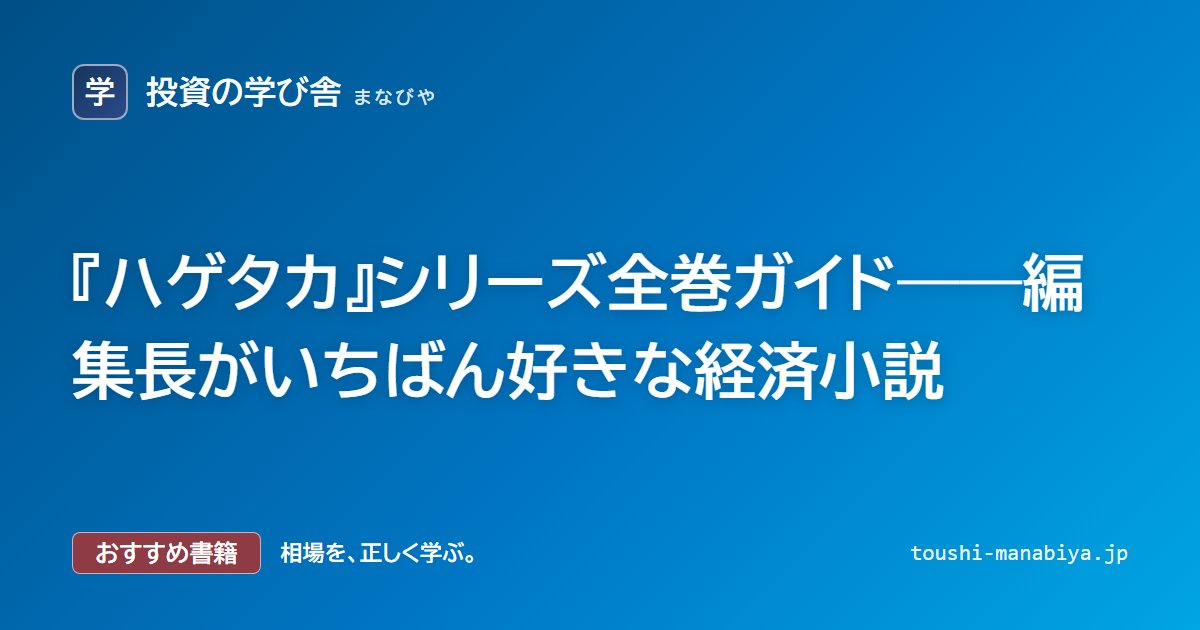
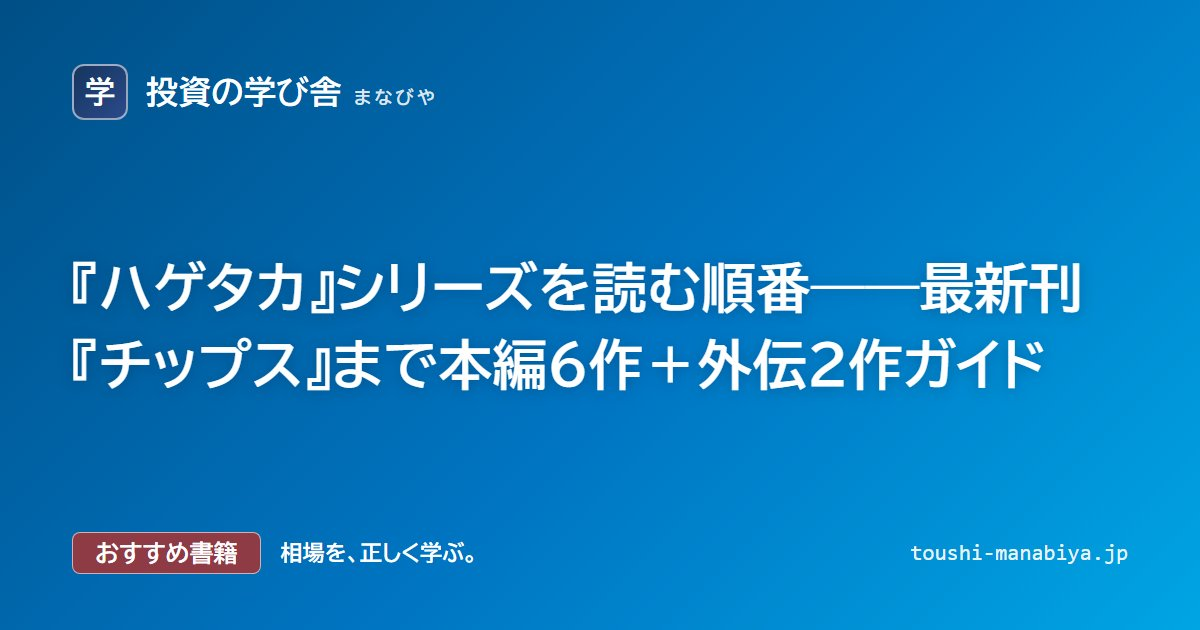
コラム追加: 物価2%未満でなぜ利上げ？（日米同週利上げと基調的な物価）
learn/underlying-inflation-rate-hike を新規公開（reviewed:true・Masaru承認）。
2026年9月16日FOMC（3.75〜4.00%・12-0）と9月18日日銀（1.25%程度・7-2）を題材に、
足もとの物価（8月CPI除く生鮮1.7%）と基調的な物価の違い、原油高下の利上げの理屈、
実質金利、利上げ当日に円安方向へ動いた値動きの読み方、家計への波及、次の日程を解説。

数値は一次情報で確定（日銀声明2本・日銀レビュー・総務省CPI・FOMC声明・FRED・財務省・日経平均プロフィル）。
evidence-auditor監査で根拠なし2件・推奨2件を指摘→全件反映（短プラ改定は日銀統計、織り込みは報道D出典で限定表現）。

あわせて yen-carry-boj-rate-hike に9月会合結果の追記（鮮度更新）、はげたかシリーズのOGPを現タイトルで再生成。

検証: validate 214件警告0 / jp_style_lint 100点 / build緑 / check_seo 指摘0 / Playwright描画（画像破損0・横スクロールなし・consoleエラー0）

Changed region(s): [[0.0617, 0.3921, 0.925, 0.6333]]

diff --git a/src/content/learn/underlying-inflation-rate-hike.md b/src/content/learn/underlying-inflation-rate-hike.md
@@ -1,0 +1,189 @@
+---
+title: "物価2%未満でなぜ利上げ？ ― 日米が同じ週に利上げした理由と「基調的な物価」の読み方"
+description: "2026年9月、米FRBと日銀が同じ週に0.25%の利上げを決めました。消費者物価は2%を下回っているのに日銀が利上げした理由を、足もとの物価と基調的な物価の違い、原油高と中央銀行の判断、実質金利、市場の反応、家計への波及の順に一次情報で整理します。"
+tags: ["金利", "日銀", "FRB", "インフレ", "マクロ経済", "事例研究"]
+updated: 2026-09-23
+reviewed: true
+reviewedAt: 2026-09-23
+sources:
+  - url: "https://www.boj.or.jp/mopo/mpmdeci/mpr_2026/k260918a.pdf"
+    title: "日本銀行「金融市場調節方針の変更について」（2026年9月18日）"
+    grade: "A"
+  - url: "https://www.boj.or.jp/mopo/mpmdeci/mpr_2026/k260616a.pdf"
+    title: "日本銀行「金融市場調節方針の変更について」（2026年6月16日）"
+    grade: "A"
+  - url: "https://www.boj.or.jp/research/wps_rev/rev_2026/rev26j06.htm"
+    title: "日本銀行 日銀レビュー「基調的な物価上昇率の概念と捉え方」（2026年3月30日）"
+    grade: "A"
+  - url: "https://www.boj.or.jp/research/research_data/cpi/index.htm"
+    title: "日本銀行「消費者物価のコア指標」"
+    grade: "A"
+  - url: "https://www.boj.or.jp/about/education/oshiete/seisaku/b45.htm"
+    title: "日本銀行「教えて！にちぎん ― 日本銀行は、物価をみるときに、何を判断材料にしていますか？」"
+    grade: "A"
+  - url: "https://www.boj.or.jp/mopo/mpmsche_minu/index.htm"
+    title: "日本銀行「金融政策決定会合の運営」（2026年の会合日程）"
+    grade: "A"
+  - url: "https://www.stat.go.jp/data/cpi/sokuhou/tsuki/index-z.html"
+    title: "総務省統計局「消費者物価指数（CPI）全国 2026年（令和8年）8月分」（2026年9月18日公表）"
+    grade: "A"
+  - url: "https://www.federalreserve.gov/newsevents/pressreleases/monetary20260916a.htm"
+    title: "Federal Reserve Board「Federal Reserve issues FOMC statement」（2026年9月16日）"
+    grade: "A"
+  - url: "https://www.federalreserve.gov/monetarypolicy/fomccalendars.htm"
+    title: "Federal Reserve Board「Meeting calendars and information」（2026年のFOMC日程）"
+    grade: "A"
+  - url: "https://fred.stlouisfed.org/series/DFEDTARU"
+    title: "Federal Reserve Bank of St. Louis, FRED「Federal Funds Target Range - Upper Limit」"
+    grade: "A"
+  - url: "https://fred.stlouisfed.org/series/DCOILBRENTEU"
+    title: "Federal Reserve Bank of St. Louis, FRED「Crude Oil Prices: Brent - Europe」（出所: 米エネルギー情報局）"
+    grade: "A"
+  - url: "https://fred.stlouisfed.org/series/DGS10"
+    title: "Federal Reserve Bank of St. Louis, FRED「Market Yield on U.S. Treasury Securities at 10-Year Constant Maturity」"
+    grade: "A"
+  - url: "https://fred.stlouisfed.org/series/DEXJPUS"
+    title: "Federal Reserve Bank of St. Louis, FRED「Japanese Yen to U.S. Dollar Spot Exchange Rate」"
+    grade: "A"
+  - url: "https://www.mof.go.jp/jgbs/reference/interest_rate/index.htm"
+    title: "財務省「国債金利情報」"
+    grade: "A"
+  - url: "https://www.boj.or.jp/statistics/dl/loan/prime/prime.htm"
+    title: "日本銀行「長・短期プライムレート（主要行）の推移」"
+    grade: "A"
+  - url: "https://diamond.jp/articles/-/398375"
+    title: "ダイヤモンド・オンライン 木内登英「日銀『9月利上げ』濃厚でペース加速も」（2026年9月4日）"
+    grade: "D"
+  - url: "https://indexes.nikkei.co.jp/nkave/archives/data?list=daily"
+    title: "日経平均プロフィル「日経平均株価 日次データ」"
+    grade: "C"
+level: 3
+order: 141
+chapter: "お金と市場の基礎"
+---
+
+## 結論
+
+2026年9月16日に米国の中央銀行（FRB）が、2日後の9月18日に日本銀行が、どちらも政策金利を<strong>0.25%引き上げ</strong>ました。日米の中央銀行が同じ週に利上げをそろえた形です。
+
+同じ9月18日に公表された8月の全国消費者物価は、生鮮食品を除く総合で前年同月比<strong>1.7%</strong>でした。日銀の目標は2%です。数字だけを見ると、目標に届いていないのに利上げした、という見え方になります。
+
+この食い違いを解く鍵は、日銀が判断の軸にしているのが<strong>足もとの物価</strong>ではなく<strong>基調的な物価</strong>だという点です。足もとの物価は、政府のエネルギー負担緩和策のように一時的な要因で押し下げられています。日銀はその影響を取り除いた物価の流れが2%に近づいており、さらに上振れる危険があると判断しました。一方、政策委員9人のうち2人は同じ数字を見て、利上げに反対しています。
+
+本記事では、何が決まったのかを一次情報で確かめたうえで、「基調的な物価」とは何か、原油高のなかで中央銀行が利上げを選ぶ理屈、利上げでも円安になった9月18日の値動き、家計への届き方を順に見ていきます。
+
+<figure class="diagram">
+  <img
+    src="/diagrams/underlying-inflation-rate-hike.svg"
+    alt="生鮮食品を除く消費者物価の前年同月比の推移と2%目標線、2026年6月と9月の日銀の利上げ時期を示した図"
+    width="640" height="400" loading="lazy" />
+  <figcaption>図：足もとの物価（生鮮食品を除く総合・前年同月比）と利上げの時期（総務省統計局・日本銀行の公表値をもとに作成）</figcaption>
+</figure>
+
+## 何が決まったか ― 時系列（確認日: 2026-09-23）
+
+公表資料で確認できる事実を並べます。
+
+- <strong>2026年6月16日</strong>: 日銀が政策金利（無担保コールレート・オーバーナイト物）を<strong>1.0%程度</strong>へ引き上げ。採決は賛成7・反対1でした。
+- <strong>9月16日（米国時間）</strong>: 米連邦公開市場委員会（FOMC）が、政策金利であるフェデラル・ファンド金利の誘導目標を0.25%引き上げ、<strong>3.75〜4.00%</strong>としました。採決は12対0の全会一致です。誘導目標の上限が引き上げられたのは2023年7月以来になります。声明は、インフレ率は依然として高いとしたうえで、今回の措置が2%目標へのより早い回帰を支えると説明しています。
+- <strong>9月18日</strong>: 総務省統計局が8月の全国消費者物価を公表。前年同月比は総合1.9%、生鮮食品を除く総合1.7%、生鮮食品及びエネルギーを除く総合1.9%でした。
+- <strong>9月18日（11時54分公表）</strong>: 日銀が政策金利を<strong>1.25%程度</strong>へ引き上げると公表。採決は賛成7・反対2です。6月の利上げから<strong>3か月</strong>での追加利上げになりました。新しい金利は翌営業日の9月24日から適用されます。
+
+この間、原油価格は大きく動いていました。北海ブレント原油のスポット価格は、2026年1月2日の1バレル61.98ドルから、中東情勢の緊迫化を受けた3月以降に100ドルを超える水準へ上昇しました。6月半ばには80ドル前後まで下がり、月末には70ドル台前半まで下落したものの、9月15日には<strong>130.80ドル</strong>をつけています。日銀も声明のなかで、春先以降の原油価格上昇を景気の下押し要因として、また物価の押し上げ要因として取り上げています。
+
+## 「足もとの物価」と「基調的な物価」は何が違うのか
+
+### 足もとの物価 ― 一時的な要因をそのまま含む
+
+ニュースで「消費者物価が前年比○%」と伝えられる数字は、実際に店頭で観測された価格をまとめたものです。そこには、制度変更や政府の補助金のような<strong>一時的な要因</strong>もそのまま入っています。
+
+日銀の9月18日の声明も、足もとの消費者物価（生鮮食品を除く総合）について、政府によるエネルギー負担緩和策の効果などがみられるものの、プラス幅が緩やかに拡大しているとの説明でした。ガソリンや電気・ガス代の負担緩和策は、消費者が支払う価格を直接下げます。そのぶん、統計上の物価上昇率は低めに出るという関係です。
+
+### 基調的な物価 ― 一時的な要因を取り除いた流れ
+
+これに対して<strong>基調的な物価上昇率</strong>とは、時間の経過とともに消えていくとみられる一時的な要因を取り除いた、物価の基本的な流れのことです。日銀は2026年3月の解説のなかで、これを<strong>単一の指標だけで評価することはできない</strong>としたうえで、次の三つの方法を組み合わせて把握していると説明しています。
+
+1. <strong>変動の大きい品目などを取り除く方法</strong>: 生鮮食品やエネルギーを除いた指数がその代表です。日銀は、品目ごとの価格変動の分布から作る指標（刈込平均値・加重中央値・最頻値など）や、制度変更などの特殊要因を除いた試算値も毎月公表しています。
+2. <strong>中長期の予想物価上昇率を捉える方法</strong>: 家計や企業が数年先の物価をどう見ているかを調べる方法です。
+3. <strong>経済モデルで推計する方法</strong>: 需給ギャップや賃金の動きなどから推計するやり方です。
+
+同じ解説は、政府の物価高対策や原油価格の上昇によって、消費者物価は短期的に振れやすくなると指摘していました。<strong>足もとの数字が振れやすい時期ほど、基調をどう読むかが判断の中心になる</strong>ということです。
+
+### 9月の判断 ― 基調は2%に近づき、上振れの危険がある
+
+9月18日の声明は、基調的な物価上昇率が2%に近づいていると判断しました。根拠として挙げたのは、企業間の価格上昇圧力が消費者段階に波及し始めていること、賃金上昇を販売価格に転嫁する動きが続いていること、中長期の予想物価上昇率が上昇を続けていることです。
+
+そのうえで、基調的な物価上昇率が2%の目標を<strong>超えて上振れていくリスクがある</strong>と明記しました。見通しでは、消費者物価の前年比は2026年度後半以降に2%をはっきりと上回る水準まで高まると予想しています。つまり今回の利上げの理屈は、「2%に届いたから」ではなく<strong>「このままでは2%を超えて行き過ぎるおそれがあるから」</strong>というものでした。
+
+### 反対した2人は何を見ていたか
+
+採決で反対した2人の理由も、声明に記載されています。
+
+- 浅田委員は、足もとの消費者物価（生鮮食品を除く総合）の上昇率が2%を下回るなか、経済の状況も必ずしも強いとはいえないとして、据え置きが望ましいとしました。
+- 佐藤委員は、経済・物価情勢が、現時点ではこれまでと比べて大きく加速している状態にあるわけではないとして、このタイミングでの利上げは適切ではないとしました。
+
+反対意見が重く見たのは、多数派とは逆に<strong>足もとの数字と景気の弱さ</strong>でした。同じ統計を見ても、一時的な要因をどこまで割り引くか、先行きの上振れをどこまで先取りするかで結論が分かれます。中央銀行の判断は計算の答えではなく、見通しとリスクの比較衡量です。この点を押さえておくと、「物価が2%未満なのに利上げはおかしい」という単純な読み方からも、「利上げしたのだから物価は2%を超えている」という逆向きの読み違いからも距離を置けます。
+
+## 原油高のときに、なぜ中央銀行は利上げを選ぶのか
+
+原油高は、中央銀行にとって扱いの難しい材料です。二つの逆向きの力を同時に持つからです。
+
+- <strong>物価を押し上げる力</strong>: ガソリンや電気代が上がり、輸送費や原材料費を通じて幅広い商品の値段に波及します。
+- <strong>景気を押し下げる力</strong>: エネルギーへの支払いが増えるぶん、家計や企業がほかに使えるお金が減ります。
+
+日銀の声明も、原油価格の上昇を景気の下押し要因と物価の押し上げ要因の両方として扱っています。景気だけを見れば金利を上げにくく、物価だけを見れば上げる理由になる。これが原油高局面の板挟みです。
+
+それでも利上げに傾く理由として、金融政策の一般的な説明では、<strong>一時的なはずの値上がりが、予想物価上昇率や賃金を通じて定着してしまう</strong>ことを避ける点が挙げられます。日銀が今回、中長期の予想物価上昇率の上昇や、賃金上昇の販売価格への転嫁を根拠に挙げたのはこのためです。米国の声明も、地政学的な動きによる不確実性の高さに触れながら、インフレ率が依然として高いことを利上げの理由としています。
+
+### 利上げしても「緩和的」と言う理由 ― 実質金利
+
+日銀は利上げを決めた同じ声明で、政策金利の変更後も<strong>緩和的な金融環境は維持される</strong>と述べています。引き締めたのに緩和的というのは矛盾に見えますが、鍵は<strong>実質金利</strong>です。
+
+実質金利とは、名目の金利から予想物価上昇率を差し引いた、物価の上昇分を考慮した金利のことです。たとえば名目金利が1.25%でも、人々が今後2%程度の物価上昇を見込んでいれば、実質的な金利はマイナスになります。お金を借りて物やサービスに換えておくほうが有利な状態が続く、ということです。日銀は声明で、実質金利は短中期ゾーンを中心になお低い水準にあるとしています（金利が資産価格に及ぼす影響は[金利と資産価格の関係](/learn/rates-and-assets/)で扱っています）。
+
+## 市場はどう反応したか ― 利上げでも円安になった日
+
+9月18日前後の主な市場指標を、公表データで確認します。
+
+- <strong>日経平均株価</strong>: 9月17日の終値64,136.25円に対し、9月18日の終値は65,018.95円。前日比882.70円高で取引を終えました。
+- <strong>ドル円</strong>: FRBが公表するニューヨーク市場の正午時点のレートで、9月17日の1ドル155.85円から9月18日は156.87円へ。日銀が利上げしたにもかかわらず、<strong>円はドルに対して安くなりました</strong>。
+- <strong>長期金利</strong>: 日本の10年国債の利回り（財務省公表）は9月17日時点で2.993%、30年国債は4.047%。米国の10年国債利回りはFOMCの9月16日に5.01%でした。
+
+利上げは一般に、その国の通貨の買い材料とされます。それでも9月18日に円安方向へ動いたことについて、値動きの理由を公表データから特定することはできません。そのうえで、この種の値動きを考えるときに一般に確認される点は次の三つです。
+
+1. <strong>事前に織り込まれていたか</strong>: 会合の2週間前には、9月の利上げを「濃厚」とみるエコノミストの分析が報じられていました。経緯は[なぜ2日で5円動くのか](/learn/yen-carry-boj-rate-hike/)で扱っています。予想どおりの決定は、決定そのものより「次の利上げがいつか」という示唆のほうに反応が集まりやすくなります（[材料出尽くし](/playbook/zairyo-dedukushi/)）。
+2. <strong>相手国も動いていたか</strong>: 2日前に米国も利上げしており、日米の金利差が縮まったわけではありません。為替を動かす要因として金利差を見るなら、片側だけの利上げと両側の利上げは意味が違います。
+3. <strong>先行きの示唆はどうだったか</strong>: 日銀は、利上げのタイミングやペースは中東情勢、AI関連需要、為替相場の影響を含めて点検しながら検討するとしました。決定会合の結果は、決定の中身と先行きの言い方の両方で読まれます。
+
+<strong>「利上げなら円高、株安」という公式は、その日の値動きに当てはまるとは限りません。</strong>予想との差、相手国との差、先行きの示唆を分けて見てください。ニュースの見出しと実際の値動きが食い違う理由を整理できます（[市場間の関係を読む](/learn/intermarket-analysis/)）。
+
+## 家計には何が届くのか
+
+政策金利は、金融機関同士の短期の貸し借りの金利です。家計に届くまでには経路と時間差があります。一般的な仕組みとして、次の点を押さえておくと点検の手がかりになるはずです。
+
+- <strong>変動金利の住宅ローン</strong>: 多くは各金融機関の短期プライムレートを基準にしています。日銀が公表している主要行の短期プライムレートは、6月の利上げのあと、2026年8月3日の改定で2.375%（最頻値）になりました。政策金利の引き上げが、2か月ほど遅れて貸出の基準金利に届いた形です。実際の返済額の見直し時期や上限のルールは契約ごとに異なるため、自分の契約内容で確認する必要があります。
+- <strong>預金金利</strong>: 政策金利の引き上げは、普通預金や定期預金の金利の引き上げにもつながりやすくなります。住宅ローンと預金の両方を持つ家計では、<strong>借入の負担増と預金の利息増を差し引きして</strong>初めて影響が分かります。
+- <strong>債券・債券型の投資信託</strong>: 金利が上がると、すでに発行されている債券の価格は下がる関係にあります。長い期間の債券ほど、金利変化の影響を大きく受けます。
+- <strong>物価そのもの</strong>: 利上げの目的は物価の行き過ぎを抑えることですが、効果が表れるまでには時間がかかります。原油高や円安による値上がりが、利上げの翌日から止まるわけではありません。
+
+## 次に確認すべき日程
+
+中央銀行の判断は、会合ごとの公表資料で少しずつ明らかになります。日程はあらかじめ公表済みです。
+
+- <strong>10月1日</strong>: 日銀が9月会合の「主な意見」を公表予定。反対意見を含む政策委員の考え方が、声明より詳しく分かります。
+- <strong>10月27日・28日</strong>: 次回のFOMC。
+- <strong>10月29日・30日</strong>: 次回の日銀の金融政策決定会合。展望レポート（経済・物価情勢の展望）の公表を伴う会合です。日米の会合が、再び同じ週に並びます。
+- <strong>11月5日</strong>: 日銀が9月会合の議事要旨を公表予定。
+
+会合の結果を待つあいだに市場が動くのは、全員が同じ日程を見ているからです。発表の前に値動きが先行し、確定した情報は後から届くという順序は、今回も変わりません。
+
+## この事例から持ち帰るもの
+
+1. <strong>「物価○%」の数字は、どの物価かで意味が変わります。</strong> 総合、生鮮食品を除く総合、生鮮食品及びエネルギーを除く総合は、同じ月でも1.7%〜1.9%とずれました。さらに中央銀行は、補助金などの一時的な要因を取り除いた基調を見ています。ニュースの数字だけで政策を予想するのではなく、<strong>中央銀行が何を物差しにしているか</strong>を先に確認します。
+2. <strong>中央銀行の説明は「現状」と「先行きのリスク」の二段構えです。</strong> 今回の利上げは、2%に届いたことではなく、2%を超えて上振れる危険を理由にしていました。声明のどの段落が現状認識で、どの段落がリスク評価かを分けて読むと、判断の理屈が追えます。
+3. <strong>反対意見は、読み違いを防ぐ材料になります。</strong> 9人中2人が反対した事実は、判断が一方向に決まり切ったものではないことの表れです。多数意見と反対意見の両方を読んでおくと、次の会合で情勢が変わったときに、どちらの見方が強まったかを判断しやすくなります。
+4. <strong>「利上げなら円高」は公式ではありません。</strong> 予想との差、相手国の動き、先行きの示唆によって、同じ利上げでも値動きは変わります。見出しと値動きが逆に見えるときほど、この三点を順に確認します。
+
+## 学習上の注意
+
+本記事は2026年9月23日までに公表された資料に基づく、金融政策と物価・市場の関係を学ぶための解説です。特定の通貨・株式・債券・金融商品の売買を推奨するものではなく、今後の金融政策の決定内容、金利水準、為替相場、株価を予想するものでもありません。9月18日の市場の値動きについて、本記事は一般に確認される観点を示したものであり、値動きの原因を特定するものではありません。市場指標の数値は各公表元のデータに基づき、取引時間中の水準とは異なる場合があります。ドル円はFRBが公表するニューヨーク市場の正午時点レート、日本国債の利回りは財務省、米国債の利回りはFRBの公表値、原油価格は米エネルギー情報局のスポット価格です。統計値や相場は日々更新されるため、確認する場合は必ず日本銀行・総務省統計局・財務省・FRBの一次情報を参照してください。

diff --git a/src/content/learn/yen-carry-boj-rate-hike.md b/src/content/learn/yen-carry-boj-rate-hike.md
@@ -2,7 +2,7 @@
 title: "なぜ2日で5円動くのか ― 160円台から155円へ、米財務長官の一言と日銀利上げ観測"
 description: "2026年9月初旬にドル円が2日で約5円動いた局面を題材に、米国からの円安是正圧力と政府・日銀の関係、政策金利と利上げの仕組み、タカ派・ハト派、円キャリー取引の巻き戻し、輸入物価・住宅ローン・預金金利を通じた家計への波及を出典付きで整理します。"
 tags: ["為替", "金利", "日銀", "円キャリー", "マクロ経済", "事例研究"]
-updated: 2026-09-07
+updated: 2026-09-23
 reviewed: true
 reviewedAt: 2026-09-07
 sources:
@@ -14,6 +14,9 @@ sources:
     grade: "A"
   - url: "https://www.boj.or.jp/about/education/oshiete/seisaku/b32.htm"
     title: "日本銀行「教えて！にちぎん ― 無担保コールレート（オーバーナイト物）とは何ですか？」"
+    grade: "A"
+  - url: "https://www.boj.or.jp/mopo/mpmdeci/mpr_2026/k260918a.pdf"
+    title: "日本銀行「金融市場調節方針の変更について」（2026年9月18日）"
     grade: "A"
   - url: "https://www.boj.or.jp/mopo/mpmsche_minu/index.htm"
     title: "日本銀行「金融政策決定会合の運営」（2026年の会合日程）"
@@ -121,6 +124,8 @@ chapter: "お金と市場の基礎"
 - <strong>9月7日</strong>: 東京市場では155円台で推移しています。急変後の水準がそのまま一方向に定着したわけではありません。
 
 そして、この先に控えているのが<strong>9月17日・18日の金融政策決定会合</strong>です。日程は日銀が事前に公表しています。市場が織り込む0.25%幅の利上げ確率は9月4日時点で80%程度に達しているとの分析が示されました。仮に9月に利上げとなれば6月から3か月間隔となり、従来の平均的な間隔よりも速いペースになります。
+
+> <strong>追記（2026年9月23日）</strong>: 日銀は9月18日の金融政策決定会合で、政策金利を<strong>1.25%程度</strong>へ引き上げました（賛成7・反対2）。6月の利上げから3か月での追加利上げです。米国も2日前の9月16日に利上げしていました。決定の理由と、利上げ当日に円安方向へ動いた値動きの読み方は[物価2%未満でなぜ利上げ？](/learn/underlying-inflation-rate-hike/)で整理しています。
 
 ここで押さえておきたいのは、<strong>相場が動いた時点では何も確定していない</strong>という点です。9月17日・18日の決定は当日まで分かりません。7〜8月の介入額が判明したのも8月28日でした。財務省は介入の総額を月次で、実施日と金額の詳細は四半期ごとに公表します。値動きは先に、確定情報は後から届きます（[為替介入に個人はなぜ乗れないのか](/learn/yen-intervention-trader-trap/)）。
 
@@ -265,4 +270,4 @@ chapter: "お金と市場の基礎"
 
 ## 学習上の注意
 
-本記事は2026年9月7日までの公表資料および報道に基づく、為替・金利・家計への波及を学ぶための解説です。特定の通貨・金融商品の売買を推奨するものではなく、将来の為替相場、日銀の金融政策の決定内容、金利水準を予想するものでもありません。2026年9月17日・18日の金融政策決定会合の結果は、本記事の作成時点では決まっていません。7〜8月の介入が米国との協調によるものであったかどうかは報道に基づく記述であり、財務省の公表資料で確認できるのは期間と金額のみです。相場水準・統計値はその後も更新されるため、確認する場合は必ず日本銀行・財務省・総務省統計局の一次情報を参照してください。
+本記事は2026年9月7日までの公表資料および報道に基づく、為替・金利・家計への波及を学ぶための解説です。特定の通貨・金融商品の売買を推奨するものではなく、将来の為替相場、日銀の金融政策の決定内容、金利水準を予想するものでもありません。2026年9月17日・18日の金融政策決定会合の結果は本記事の作成時点では決まっておらず、本文の追記（2026年9月23日）で結果のみを補っています。7〜8月の介入が米国との協調によるものであったかどうかは報道に基づく記述であり、財務省の公表資料で確認できるのは期間と金額のみです。相場水準・統計値はその後も更新されるため、確認する場合は必ず日本銀行・財務省・総務省統計局の一次情報を参照してください。
